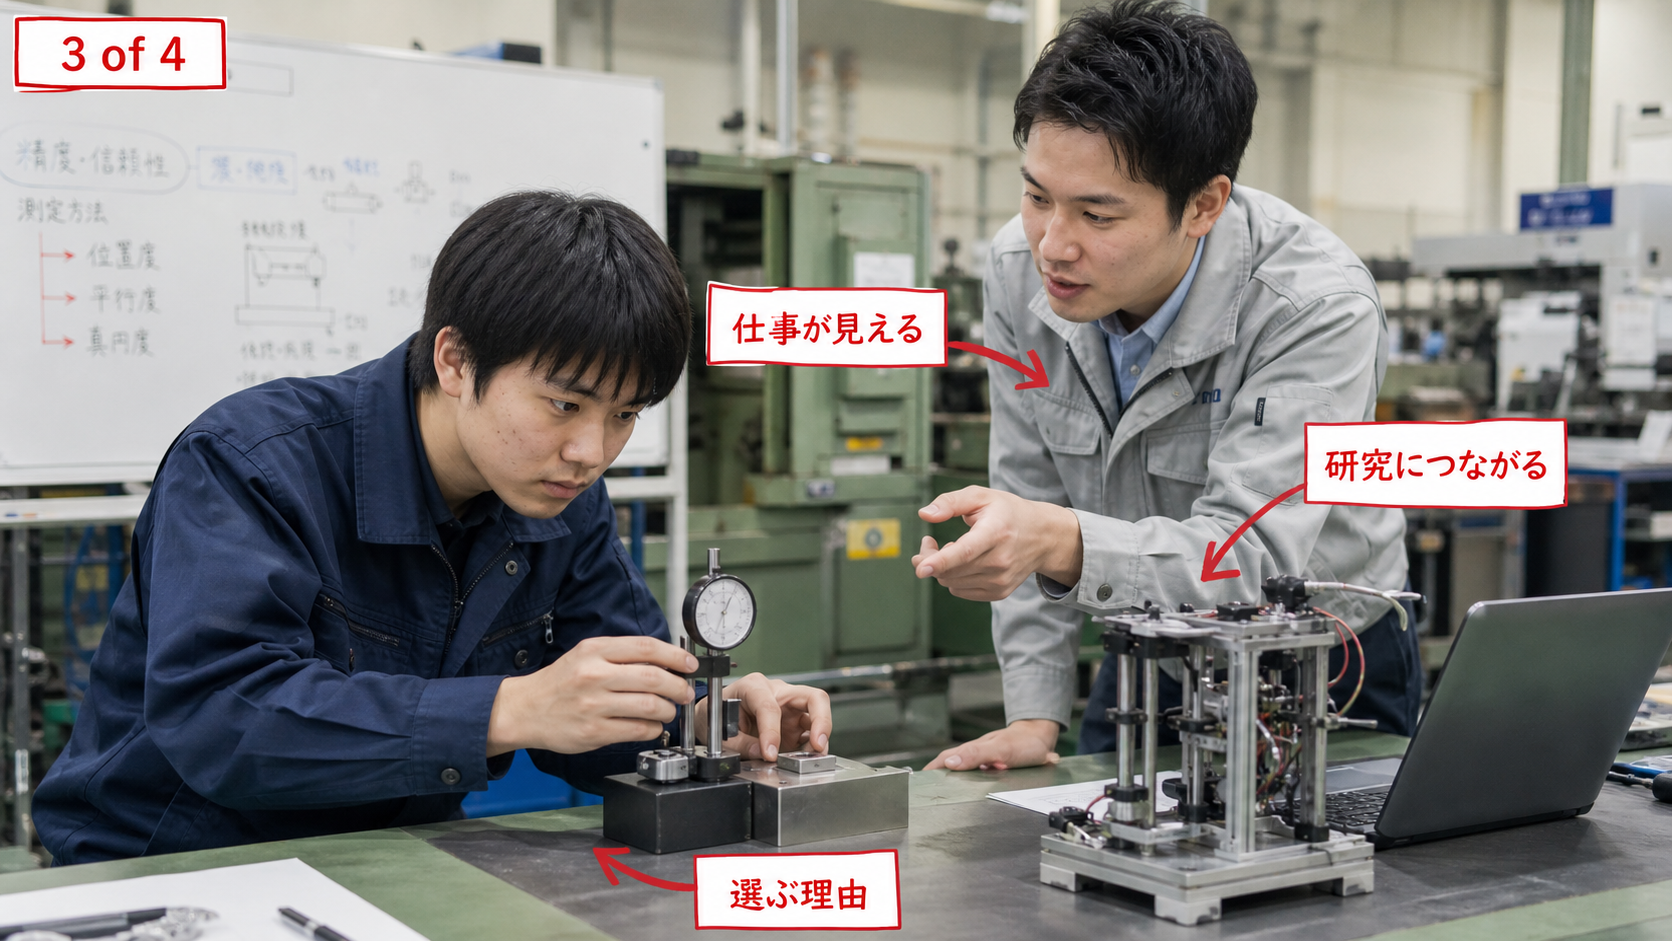
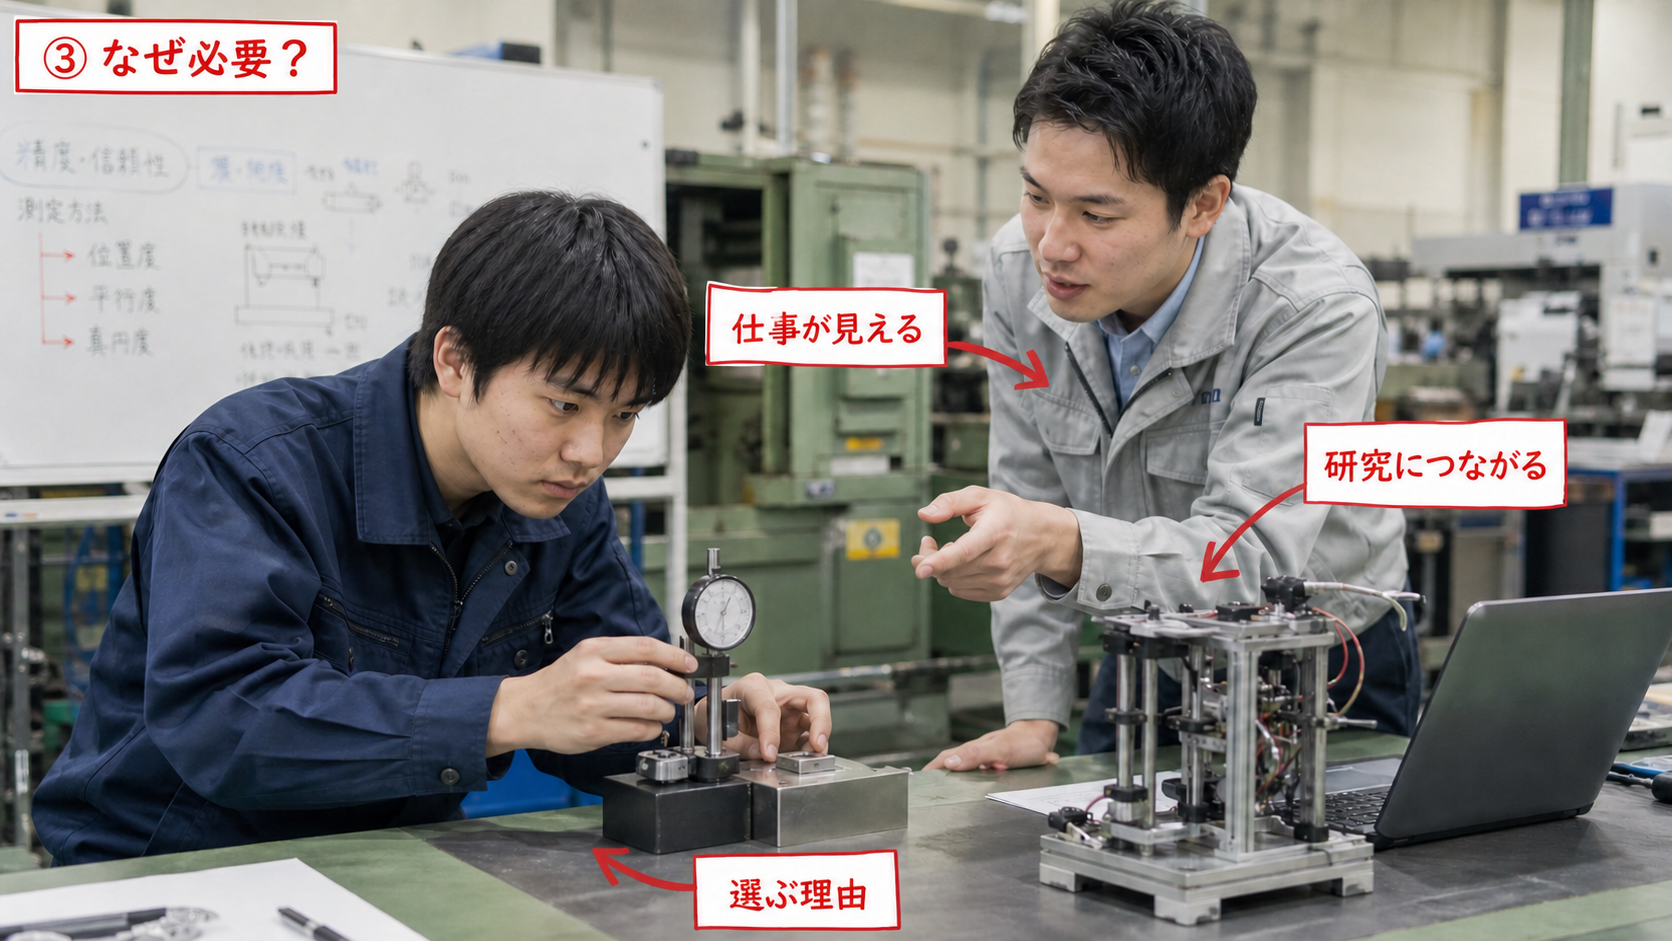
Localize recruitment paper theater frame

diff --git a/index.html b/index.html
@@ -1345,7 +1345,7 @@
     </div>
   </div>
 
-  <script src="./quiz-data.js?v=59"></script>
+  <script src="./quiz-data.js?v=60"></script>
   <script>
     const quizSets = window.NIKKAN_QUIZ_SETS || [];
     const storageKey = "nikkan-manufacturing-review-quiz-library-v2";
@@ -1928,7 +1928,7 @@
         stage.classList.add("lab-active");
         const iframe = document.createElement("iframe");
         iframe.className = "lab-frame";
-        iframe.src = "./reward-expectation-3d/index.html?v=59";
+        iframe.src = "./reward-expectation-3d/index.html?v=60";
         iframe.title = "期待と行動をつなぐ脳領域 3Dラボ";
         iframe.setAttribute("aria-label", "報酬期待と行動の脳領域を動かして学ぶ3D教材");
         iframe.loading = "eager";
@@ -2272,7 +2272,7 @@
           location.reload();
         });
         try {
-          const registration = await navigator.serviceWorker.register("./service-worker.js?v=59");
+          const registration = await navigator.serviceWorker.register("./service-worker.js?v=60");
           try {
             await registration?.update?.();
           } catch (error) {

diff --git a/service-worker.js b/service-worker.js
@@ -1,9 +1,9 @@
-const CACHE_NAME = "nikkan-manufacturing-review-quiz-v59";
+const CACHE_NAME = "nikkan-manufacturing-review-quiz-v60";
 
 const PRECACHE_ASSETS = [
   "./",
   "./index.html",
-  "./quiz-data.js?v=59",
+  "./quiz-data.js?v=60",
   "./manifest.webmanifest",
   "./service-worker.js",
   "./assets/icon.svg",
